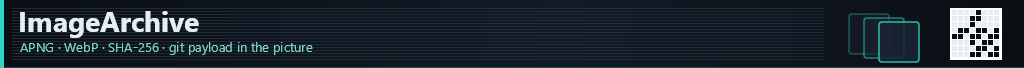
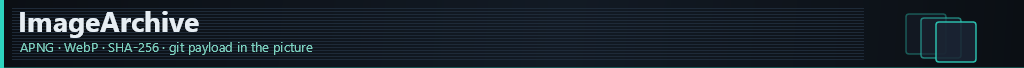
chore: add GitVersion, set v0.5.0 release baseline
Wire GitVersion.MsBuild and Nuke [GitVersion] for package versioning.
First release is tagged v0.5.0. Refresh header banner (no fake QR) and
dark sample archive image.

Changed region(s): [[0.7812, 0.1176, 1.0, 0.9412]]

diff --git a/README.md b/README.md
@@ -50,6 +50,15 @@ schema/imagearchive-schema.json
 examples/example-manifest.json
 ```
 
+## Versioning
+
+[GitVersion](https://gitversion.net/) drives assembly and NuGet versions (`GitVersion.yml`, `next-version: 0.5.0`, tag prefix `v`). Packable projects use **GitVersion.MsBuild**; Nuke injects the same version on compile/pack/publish.
+
+```powershell
+./build.ps1 Pack --configuration Release
+./build.ps1 Publish --configuration Release   # needs NUGET_API_KEY
+```
+
 ## Dependencies (product pins)
 
 | Package | Version | Notes |